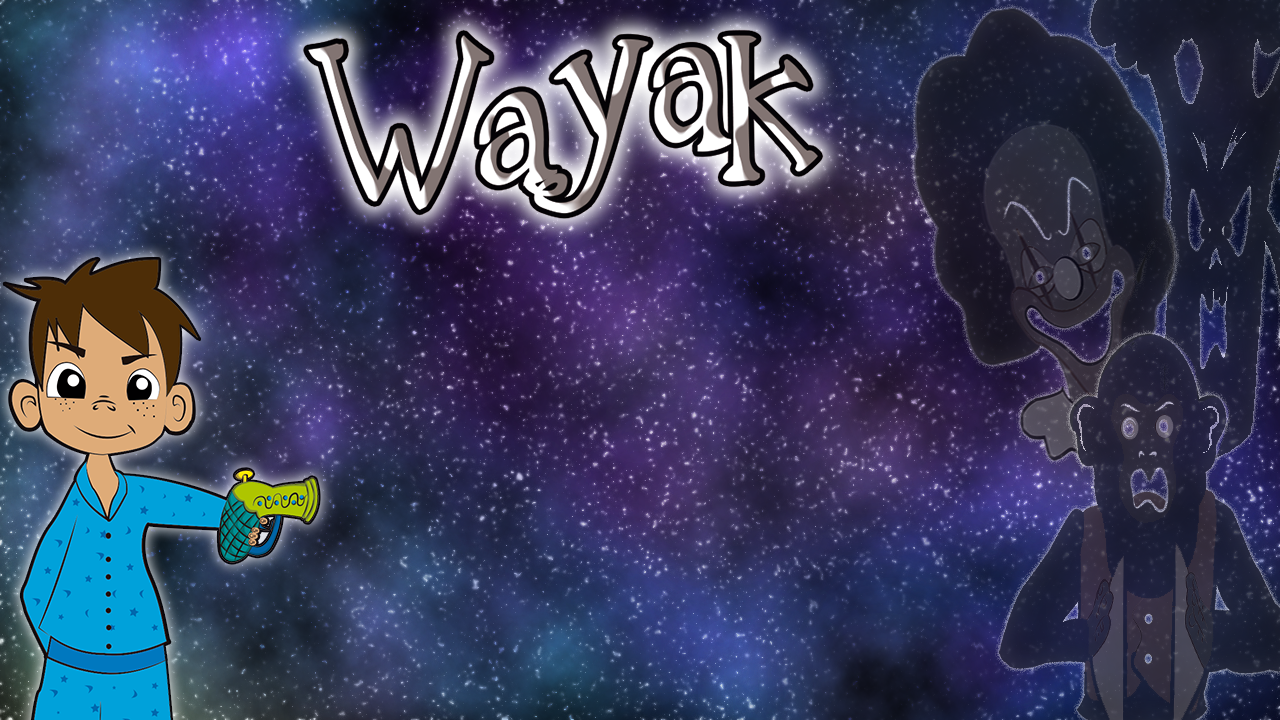
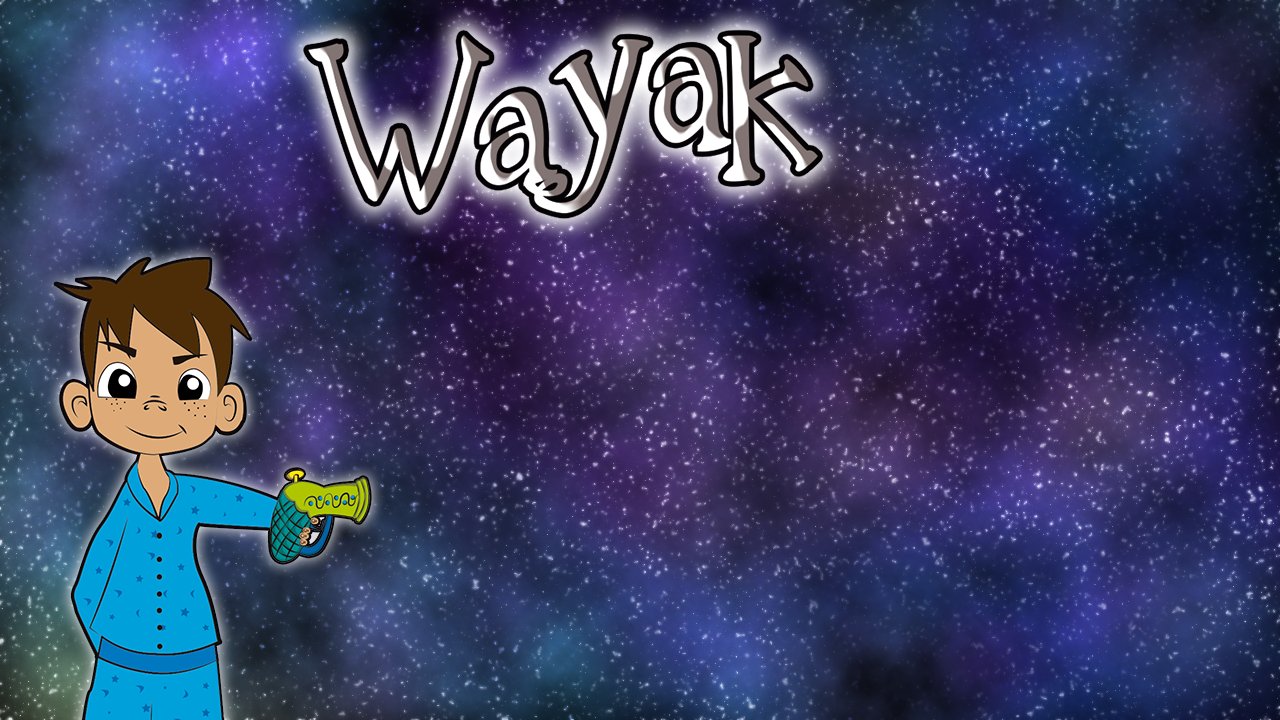
Últimos detalles

Changed region(s): [[0.6875, 0.0, 1.0, 1.0], [0.0, 0.3361, 0.3125, 1.0], [0.9688, 0.0, 1.0, 0.0306]]

diff --git a/core/src/mx/itesm/wayakkk/PantallaMenu.java b/core/src/mx/itesm/wayakkk/PantallaMenu.java
@@ -84,7 +84,7 @@ public class PantallaMenu implements Screen {
 
     private void cargarTexturasSprites() {
 
-        texturaFondo = new Texture(Gdx.files.internal("fondopantallainicio.png"));
+        texturaFondo = new Texture(Gdx.files.internal("fondo2.png"));
         spriteFondo = new Sprite(texturaFondo);
 
         texturaBtnJugar = new Texture(Gdx.files.internal("PLAY.png"));
@@ -102,7 +102,7 @@ public class PantallaMenu implements Screen {
         spriteBtnAjustes.setPosition(Principal.ANCHO_MUNDO / 2 - spriteBtnAjustes.getWidth() / 2,
                 (float) (Principal.ALTO_MUNDO / 4.8));
 
-        texturaBtnInstrucciones = new Texture(Gdx.files.internal("help1.png"));
+        texturaBtnInstrucciones = new Texture(Gdx.files.internal("help2.png"));
         spriteBtnInstrucciones = new Sprite(texturaBtnInstrucciones);
         spriteBtnInstrucciones.setPosition(Principal.ANCHO_MUNDO / 2 - spriteBtnInstrucciones.getWidth() / 2,
                 (float) (Principal.ALTO_MUNDO / 23));
